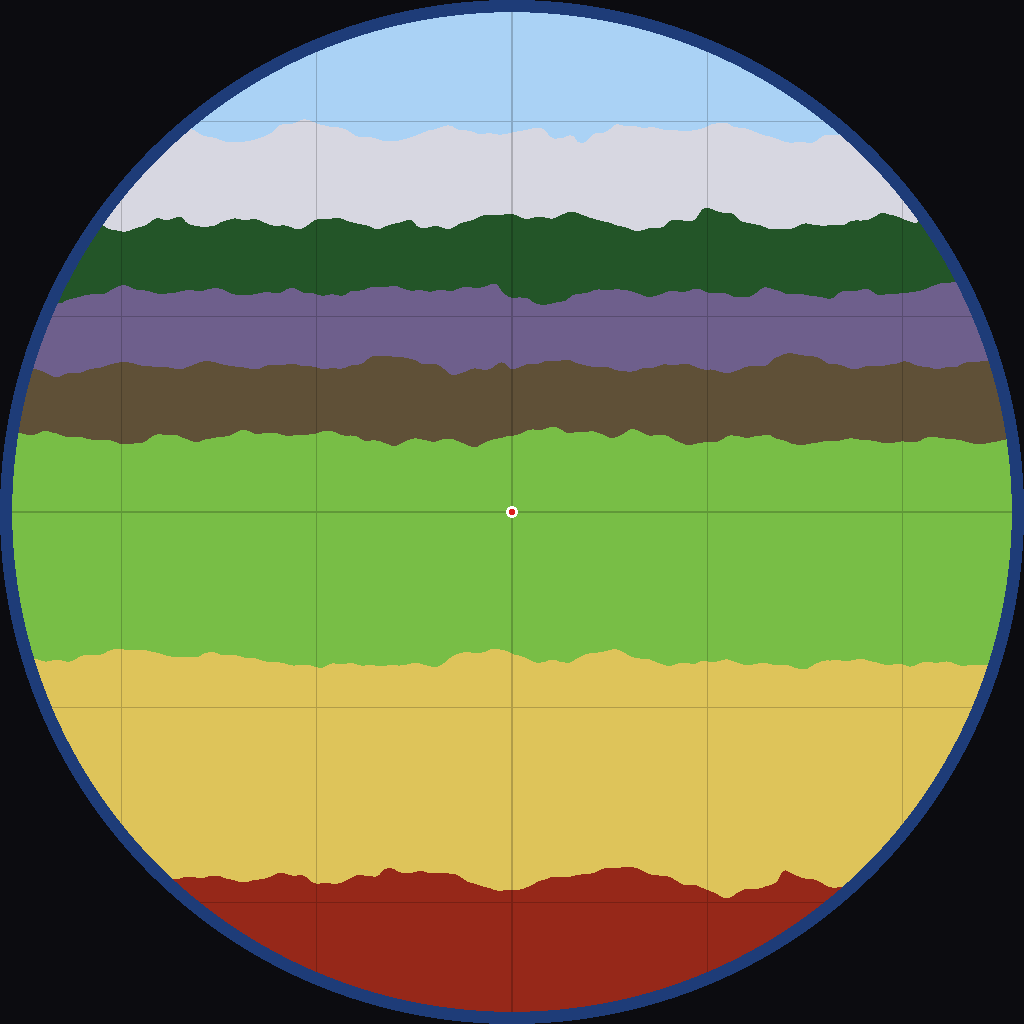
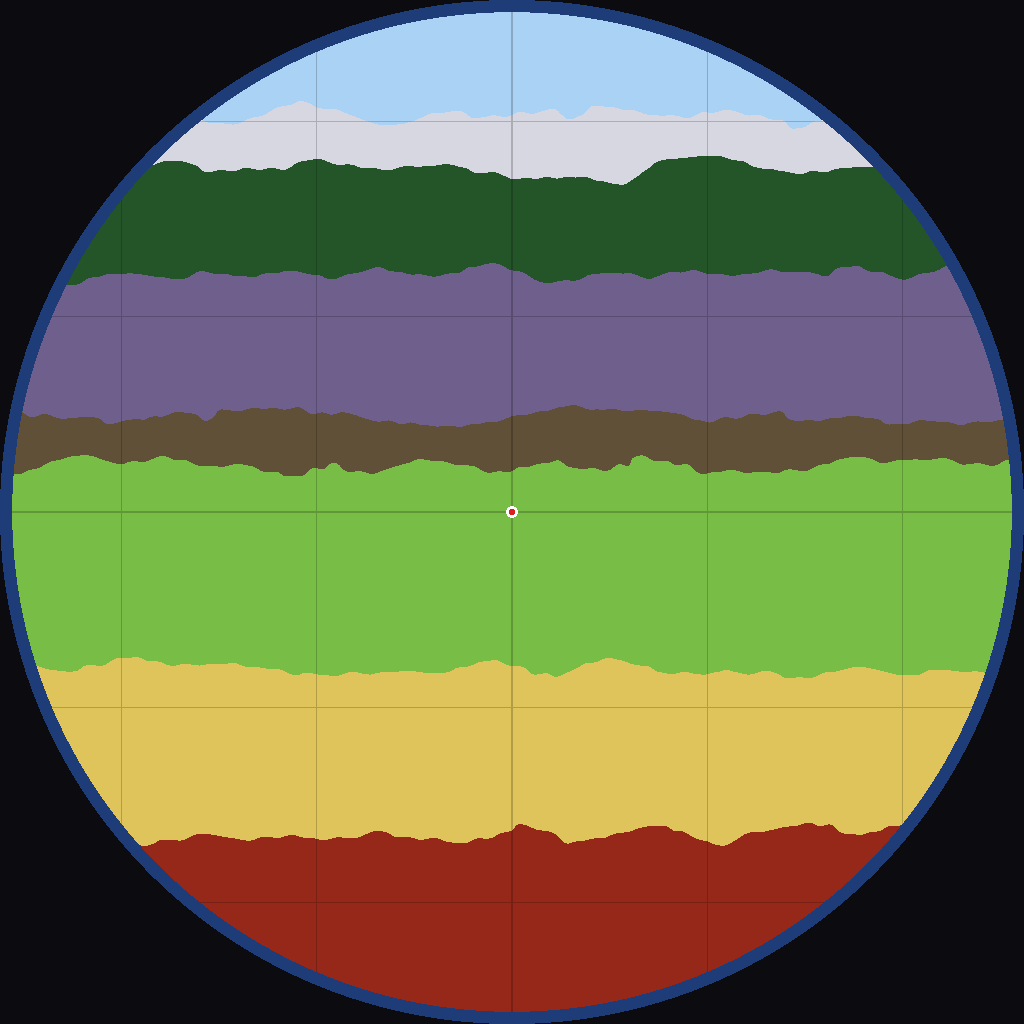
Breitengrade 0.2.0: Strukturen und Biom-Varianten
- Bandbreiten an Flächenanteile normaler Welten angelehnt, Meadows bleibt in der Mitte
- Anzahl der Strukturen an die Biom-Fläche angepasst (max. Faktor einstellbar)
- Bänder in Teilgebiete zerschnitten, damit Biom-Varianten entstehen
- Diagnose-Ausgaben zu Sektoren und Varianten im Log
- Alte Standard-Grenzen in der Config werden automatisch umgestellt

diff --git a/Breitengrade/LocationPatches.cs b/Breitengrade/LocationPatches.cs
@@ -1,0 +1,123 @@
+using System;
+using System.Collections.Generic;
+using System.Linq;
+using HarmonyLib;
+
+namespace Breitengrade
+{
+    /// <summary>
+    /// Valheim platziert von jeder Struktur eine feste Anzahl pro Welt, egal wie groß das Biom ist.
+    /// Hier passen wir die Anzahl an die Fläche an, die das Biom in unserer Welt hat,
+    /// damit die Dichte ungefähr wie in normalem Valheim bleibt.
+    /// </summary>
+    internal static class LocationScaler
+    {
+        /// <summary>
+        /// Anteil der Weltscheibe (Radius 10000 m) je Biom in einer normalen Valheim-Welt.
+        /// Gemessen aus dem Biom-Cache einer Vanilla-Welt.
+        /// </summary>
+        static readonly Dictionary<int, float> VanillaShare = new Dictionary<int, float>
+        {
+            [Latitude.Meadows] = 0.032f,
+            [Latitude.Swamp] = 0.033f,
+            [Latitude.Mountain] = 0.032f,
+            [Latitude.BlackForest] = 0.139f,
+            [Latitude.Plains] = 0.140f,
+            [Latitude.AshLands] = 0.095f,
+            [Latitude.DeepNorth] = 0.068f,
+            [Latitude.Mistlands] = 0.199f,
+        };
+
+        static readonly AccessTools.FieldRef<ZoneSystem, List<ZoneSystem.ZoneLocation>> Locations =
+            AccessTools.FieldRefAccess<ZoneSystem, List<ZoneSystem.ZoneLocation>>("m_locations");
+        static readonly AccessTools.FieldRef<ZoneSystem.ZoneLocation, string> AltBiomeParent =
+            AccessTools.FieldRefAccess<ZoneSystem.ZoneLocation, string>("m_altBiomeParent");
+
+        static readonly Dictionary<ZoneSystem.ZoneLocation, int> s_original = new Dictionary<ZoneSystem.ZoneLocation, int>();
+        static bool s_loggedForCurrentWorld;
+
+        public static void OnWorldChanged() => s_loggedForCurrentWorld = false;
+
+        public static void Apply(ZoneSystem zs)
+        {
+            var list = Locations(zs);
+            if (list == null) return;
+
+            Dictionary<int, float> ours = State.Active ? MeasureOurShares() : null;
+            bool log = State.Active && !s_loggedForCurrentWorld;
+            int changed = 0;
+
+            foreach (var loc in list)
+            {
+                if (loc == null) continue;
+                if (!s_original.TryGetValue(loc, out int original))
+                    s_original[loc] = original = loc.m_quantity;
+
+                int target = State.Active ? Scaled(loc, original, ours) : original;
+                if (loc.m_quantity != target) loc.m_quantity = target;
+
+                if (log && target != original)
+                {
+                    changed++;
+                    Plugin.Log.LogInfo($"[Strukturen] {loc.m_prefabName ?? loc.m_name} ({loc.m_biome}): {original} -> {target}");
+                }
+            }
+
+            if (log)
+            {
+                s_loggedForCurrentWorld = true;
+                Plugin.Log.LogInfo($"[Strukturen] Anzahl bei {changed} Strukturtypen an die Biom-Flächen angepasst.");
+            }
+        }
+
+        static int Scaled(ZoneSystem.ZoneLocation loc, int original, Dictionary<int, float> ours)
+        {
+            if (!loc.m_enable || loc.m_unique || loc.m_prioritized || original <= 1) return original;
+            // Orte von Biom-Varianten hängen an der Zahl der Varianten, nicht an der Fläche.
+            if (!string.IsNullOrEmpty(AltBiomeParent(loc))) return original;
+
+            int mask = (int)loc.m_biome;
+            float vanilla = 0f, mine = 0f;
+            foreach (var kv in VanillaShare)
+            {
+                if ((mask & kv.Key) == 0) continue;
+                vanilla += kv.Value;
+                mine += ours.TryGetValue(kv.Key, out var s) ? s : 0f;
+            }
+            if (vanilla <= 0f) return original; // z. B. reine Ozean-Strukturen
+
+            float factor = mine / vanilla;
+            factor = Math.Max(0.3f, Math.Min(Plugin.MaxStructureFactor.Value, factor));
+            return Math.Max(1, (int)Math.Round(original * factor));
+        }
+
+        /// <summary>Flächenanteile der Biome in unserer Welt (gleiche Rechnung wie das Vorschau-Werkzeug).</summary>
+        public static Dictionary<int, float> MeasureOurShares()
+        {
+            var counts = new Dictionary<int, int>();
+            int total = 0;
+            for (int iz = -50; iz <= 50; iz++)
+            for (int ix = -50; ix <= 50; ix++)
+            {
+                float x = ix * 200f, z = iz * 200f;
+                if (x * x + z * z > 10000f * 10000f) continue;
+                int b = Latitude.GetBiome(x, z);
+                counts[b] = counts.TryGetValue(b, out var n) ? n + 1 : 1;
+                total++;
+            }
+            return counts.ToDictionary(kv => kv.Key, kv => (float)kv.Value / total);
+        }
+    }
+
+    [HarmonyPatch(typeof(ZoneSystem), "GenerateLocationsIfNeeded")]
+    static class Patch_GenerateLocationsIfNeeded
+    {
+        static void Prefix(ZoneSystem __instance) => LocationScaler.Apply(__instance);
+    }
+
+    [HarmonyPatch(typeof(ZoneSystem), "GenerateLocations")]
+    static class Patch_GenerateLocations
+    {
+        static void Prefix(ZoneSystem __instance) => LocationScaler.Apply(__instance);
+    }
+}

diff --git a/Breitengrade/AltBiomePatches.cs b/Breitengrade/AltBiomePatches.cs
@@ -1,0 +1,119 @@
+using System;
+using System.Collections.Generic;
+using System.Linq;
+using HarmonyLib;
+
+namespace Breitengrade
+{
+    /// <summary>
+    /// Biom-Varianten (z. B. "Dark Meadows", "Bog Swamp") werden auf zusammenhängende Gebiete
+    /// ("Sektoren") verteilt, die eine bestimmte Größe haben müssen. In normalem Valheim ist jede
+    /// Insel ein Sektor. Bei uns wäre jedes Band ein einziger riesiger Sektor, der zu groß ist.
+    /// Deshalb zerschneiden wir die Bänder in kleinere, natürlich geformte Teilgebiete.
+    /// </summary>
+    internal static class Sectors
+    {
+        public static readonly Dictionary<BiomeSector, long> RegionOf = new Dictionary<BiomeSector, long>();
+
+        /// <summary>Teilgebiet eines Punkts: nächster Punkt in einem leicht verschobenen Raster (Voronoi).</summary>
+        public static long Region(short gx, short gy)
+        {
+            float wx = AltBiomeWorldData.MapSpaceToWorldSpace((float)gx);
+            float wz = AltBiomeWorldData.MapSpaceToWorldSpace((float)gy);
+            float size = Math.Max(300f, Plugin.SectorSize.Value);
+
+            int cx = (int)Math.Floor(wx / size), cz = (int)Math.Floor(wz / size);
+            long best = 0;
+            float bestD = float.MaxValue;
+            for (int dz = -1; dz <= 1; dz++)
+            for (int dx = -1; dx <= 1; dx++)
+            {
+                int ix = cx + dx, iz = cz + dz;
+                float px = (ix + Jitter(ix, iz, 1)) * size;
+                float pz = (iz + Jitter(ix, iz, 2)) * size;
+                float d = (px - wx) * (px - wx) + (pz - wz) * (pz - wz);
+                if (d < bestD) { bestD = d; best = ((long)ix << 32) ^ (uint)iz; }
+            }
+            return best;
+        }
+
+        static float Jitter(int x, int z, int salt)
+        {
+            unchecked
+            {
+                uint h = (uint)(x * 73856093) ^ (uint)(z * 19349663) ^ (uint)(salt * 83492791);
+                h ^= h >> 13; h *= 0x5bd1e995; h ^= h >> 15;
+                return 0.1f + 0.8f * (h & 0xFFFF) / 65535f;
+            }
+        }
+    }
+
+    [HarmonyPatch(typeof(AltBiomeWorldData), nameof(AltBiomeWorldData.GenerateSectors))]
+    static class Patch_GenerateSectors
+    {
+        static void Prefix() => Sectors.RegionOf.Clear();
+
+        static void Postfix(AltBiomeWorldData __instance)
+        {
+            Sectors.RegionOf.Clear();
+            try { Diagnostics.LogSectors(__instance); }
+            catch (Exception e) { Plugin.Log.LogWarning("[Diagnose] Sektoren: " + e.Message); }
+        }
+    }
+
+    /// <summary>Beim Füllen eines Sektors nicht über die Grenze des Teilgebiets hinaus füllen.</summary>
+    [HarmonyPatch(typeof(AltBiomeWorldData), "tryFill")]
+    static class Patch_TryFill
+    {
+        static bool Prefix(BiomeSector pSector, short x, short y)
+        {
+            if (!State.Active || pSector == null) return true;
+            long region = Sectors.Region(x, y);
+            if (!Sectors.RegionOf.TryGetValue(pSector, out long own))
+            {
+                Sectors.RegionOf[pSector] = region;
+                return true;
+            }
+            // Punkt gehört zu einem anderen Teilgebiet: offen lassen, er bekommt später einen eigenen Sektor.
+            return own == region;
+        }
+    }
+
+    [HarmonyPatch(typeof(AltBiomeWorldData), nameof(AltBiomeWorldData.GenerateAltBiomes))]
+    static class Patch_GenerateAltBiomes
+    {
+        static void Postfix()
+        {
+            try { Diagnostics.LogAltBiomes(); }
+            catch (Exception e) { Plugin.Log.LogWarning("[Diagnose] Alt-Biome: " + e.Message); }
+        }
+    }
+
+    internal static class Diagnostics
+    {
+        public static void LogSectors(AltBiomeWorldData data)
+        {
+            if (data?.Sectors == null) return;
+            foreach (var g in data.Sectors.GroupBy(s => s.Biome).OrderBy(g => g.Key.ToString()))
+            {
+                var edges = g.Select(s => s.EdgeCount).OrderBy(e => e).ToList();
+                Plugin.Log.LogInfo($"[Diagnose] Sektoren {g.Key}: {edges.Count} Stück, " +
+                                   $"Randgröße min {edges.First()}, Median {edges[edges.Count / 2]}, max {edges.Last()}");
+            }
+        }
+
+        public static void LogAltBiomes()
+        {
+            var list = Traverse.Create(typeof(AltBiomeList)).Field("m_altBiomes").GetValue<List<AltBiome>>();
+            if (list == null) return;
+            foreach (var a in list)
+            {
+                Plugin.Log.LogInfo($"[Diagnose] Variante '{a.m_name}' ({a.m_biome}): platziert {a.Sectors?.Count ?? 0} " +
+                                   $"(soll {a.m_minAmountSpawned}-{a.m_maxAmountSpawned}), Rand {a.m_minEdgeSize}-{a.m_maxEdgeSize}, " +
+                                   $"Höhe {a.m_minAvgHeight}-{a.m_maxAvgHeight}, MinAbstand {a.m_minDistanceFromCenter}, " +
+                                   $"Nachbar nötig {a.m_requireNeighbor}, Nachbar verboten {a.m_notNeighbor}, " +
+                                   $"gültige Sektoren {a.ValidPlacementSectors}");
+            }
+        }
+    }
+}

diff --git a/Breitengrade/Plugin.cs b/Breitengrade/Plugin.cs
@@ -10,7 +10,7 @@ namespace Breitengrade
     {
         public const string Guid = "aron.valheim.breitengrade";
         public const string ModName = "Breitengrade";
-        public const string Version = "0.1.0";
+        public const string Version = "0.2.0";
 
         internal static ManualLogSource Log;
         internal static ConfigEntry<string> WorldName;
@@ -18,6 +18,11 @@ namespace Breitengrade
         internal static ConfigEntry<float> Wobble;
         internal static ConfigEntry<float> LandMin;
         internal static ConfigEntry<float> MountainLift;
+        internal static ConfigEntry<float> MaxStructureFactor;
+        internal static ConfigEntry<float> SectorSize;
+
+        /// <summary>Standard-Grenzen der Version 0.1.0, werden automatisch auf die neuen umgestellt.</summary>
+        const string OldDefaultBounds = "-7500,-3000,1500,3000,4500,6000,7800";
 
         void Awake()
         {
@@ -35,6 +40,17 @@ namespace Breitengrade
                 "Niedrigste Grundhöhe des Landes (Meeresspiegel liegt bei 0.15). Höher = weniger Wasserstellen.");
             MountainLift = Config.Bind("Gelände", "BergAnhebung", 0.25f,
                 "Wie stark das Mountain-Band zusätzlich angehoben wird, damit es echte Berge gibt.");
+            MaxStructureFactor = Config.Bind("Strukturen", "MaxFaktor", 6f,
+                "Strukturen werden an die Biom-Fläche angepasst (größeres Biom = mehr Strukturen). " +
+                "Höchstens um diesen Faktor mehr als in normalem Valheim.");
+            SectorSize = Config.Bind("Strukturen", "TeilgebietGroesse", 1500f,
+                "Größe (Meter) der Teilgebiete, in die die Bänder für Biom-Varianten zerschnitten werden.");
+
+            if (BandBounds.Value == OldDefaultBounds)
+            {
+                BandBounds.Value = Latitude.DefaultBounds;
+                Log.LogInfo("Biom-Grenzen auf die neuen Standardwerte umgestellt.");
+            }
 
             new Harmony(Guid).PatchAll();
             Log.LogInfo($"{ModName} {Version} geladen. Aktiv nur für die Welt \"{WorldName.Value}\".");

diff --git a/Breitengrade/Latitude.cs b/Breitengrade/Latitude.cs
@@ -25,9 +25,9 @@ namespace Breitengrade
         /// Die Welt reicht von -10000 bis +10000. Meadows liegt über der Mitte (0),
         /// damit der Startpunkt dort bleibt.
         /// </summary>
-        public static float[] Bounds = { -7500f, -3000f, 1500f, 3000f, 4500f, 6000f, 7800f };
+        public static float[] Bounds = { -6650f, -3200f, 1000f, 1900f, 4900f, 7000f, 8150f };
 
-        public const string DefaultBounds = "-7500,-3000,1500,3000,4500,6000,7800";
+        public const string DefaultBounds = "-6650,-3200,1000,1900,4900,7000,8150";
 
         /// <summary>Wie stark die Grenzen wellig sind (Meter nach Nord/Süd).</summary>
         public static float WobbleAmplitude = 400f;

diff --git a/Breitengrade/WorldGenPatches.cs b/Breitengrade/WorldGenPatches.cs
@@ -21,6 +21,7 @@ namespace Breitengrade
                 Latitude.TryParseBounds(Latitude.DefaultBounds, out bounds);
             }
             Latitude.Configure(world.m_seed, bounds, Plugin.Wobble.Value);
+            LocationScaler.OnWorldChanged();
             Plugin.Log.LogInfo($"Breitengrade AKTIV für Welt \"{world.m_name}\" (Seed {world.m_seedName}).");
         }
     }

diff --git a/README.md b/README.md
@@ -17,8 +17,16 @@ Ashlands → Plains → Meadows → Swamp → Mistlands → Black Forest → Mou
   Alle anderen Welten bleiben unverändert.
 - Grenzen, Welligkeit, Mindesthöhe und Berg-Anhebung lassen sich in
   `BepInEx\config\aron.valheim.breitengrade.cfg` einstellen.
+- Die Bandbreiten orientieren sich an den Flächenanteilen normaler Welten,
+  Meadows liegt aber immer in der Mitte (Startpunkt).
+- Die Anzahl der Strukturen (Krypten, Dörfer, Türme …) wird an die Fläche
+  jedes Bioms angepasst, damit die Dichte ungefähr wie in normalem Valheim bleibt.
+- Die Bänder werden intern in Teilgebiete zerschnitten, damit Biom-Varianten
+  (z. B. „Dark Meadows“, „Bog Swamp“) und ihre speziellen Orte entstehen können.
 - Im Multiplayer brauchen alle Spieler (und der Server) die Mod.
-- Ohne Ozean gibt es keine Seeschlangen und Leviathane.
+- Ohne Ozean gibt es keine Seeschlangen, Leviathane und Schiffswracks.
+- Im Log (`BepInEx\LogOutput.log`) stehen unter `[Strukturen]` und `[Diagnose]`
+  die angepassten Mengen und die Biom-Varianten.
 
 Vorschau der Karte ohne Spielstart (`tools/BiomVorschau`):
 
